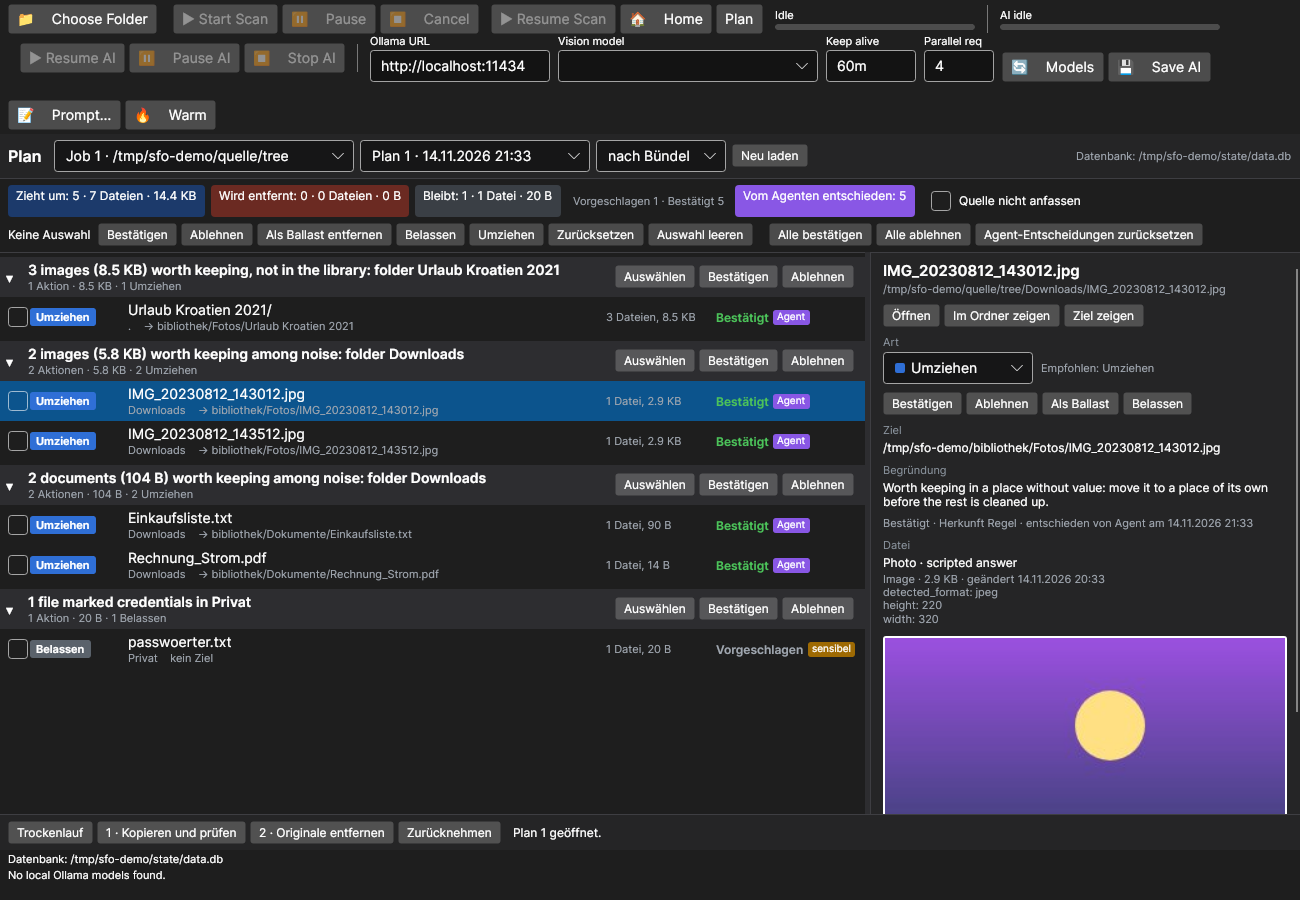
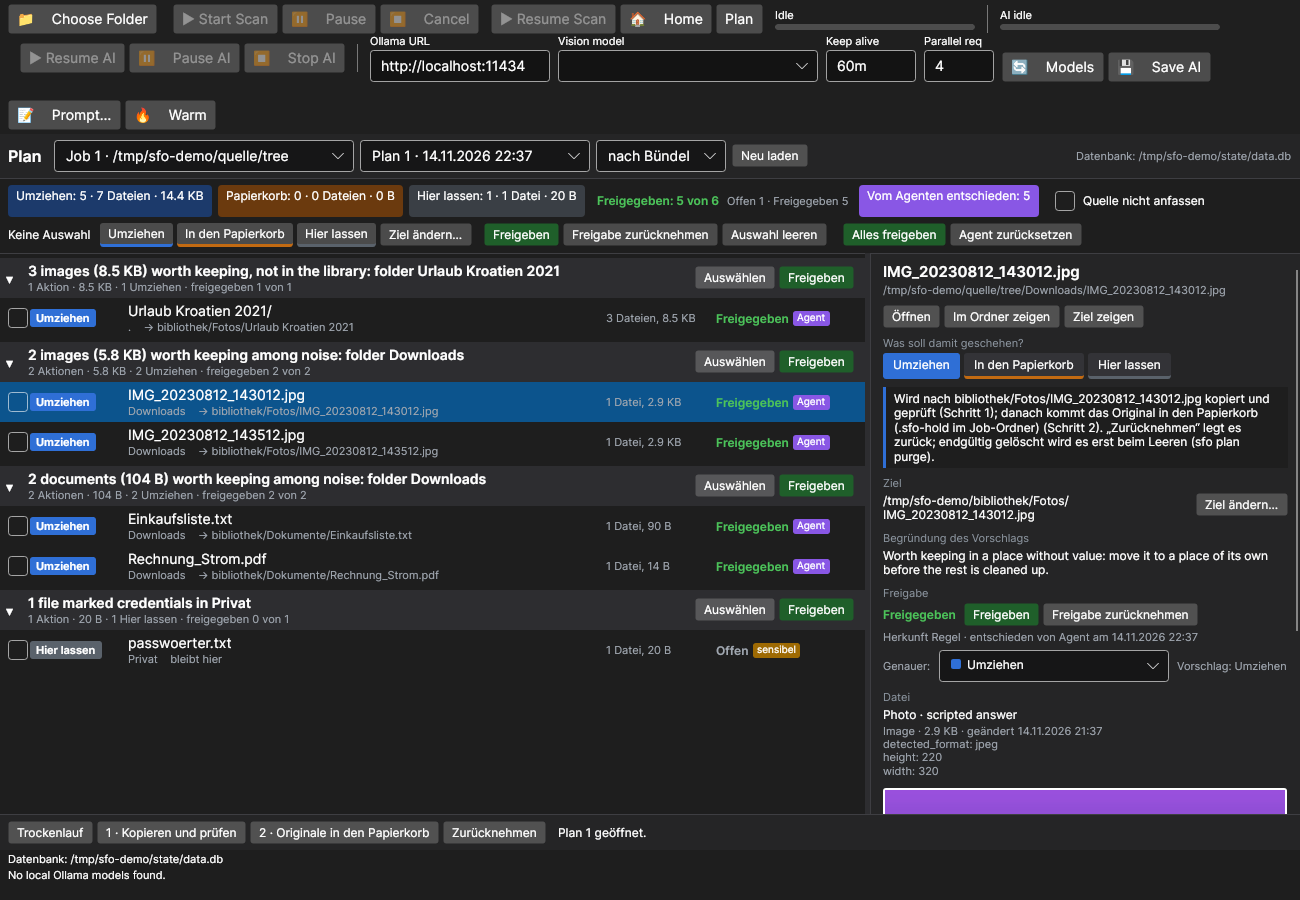
Docs and screenshots: outcomes, release and target picker of the plan view
The plan view now asks one question per file and releases in one go
(issue 102); README, status, the CLI note on the GUI and a glossary section
name the new words and which codes they stand for, with the buttons there
were before. The screenshots are one headless pass on Linux over the
generated test folder, including the target picker and the summary before
step 1; the old set is replaced.

diff --git a/docs/status-and-roadmap.md b/docs/status-and-roadmap.md
@@ -186,6 +186,35 @@ yet against a real Ollama restart.
   `sfo plan apply --action`; `sfo plan purge` is CLI only; "Als Ballast" picks
   `delete_source` only when the library comparison shows the content is held
   there, otherwise quarantine.
+- Plan view, outcomes and release (since 14.11.2026,
+  [#102](https://github.com/crack666/smart_file_organizer/issues/102)). Until
+  then the buttons were "Bestätigen", "Ablehnen", "Als Ballast", "Belassen",
+  "Umziehen", "Zurücksetzen" per row, selection and group, plus "Alle
+  bestätigen" / "Alle ablehnen"; "Ablehnen" and "Belassen" both left the file
+  in place. Now one question per action, three outcomes in fixed colours:
+  "Umziehen" (`move`, `copy`), "In den Papierkorb" (`quarantine`,
+  `delete_source`: the original goes into `.sfo-hold` in the job folder in
+  step 2 and is deleted only by `sfo plan purge`), "Hier lassen" (`leave`).
+  Then "Freigeben" (`approved`) for one action, the ticked rows, a group or
+  "Alles freigeben"; "Freigabe zurücknehmen" sets `approved` back to
+  `proposed`. Every row (tooltip) and the detail say what executing does,
+  where the file is afterwards and how to take it back; step 1 asks with a
+  summary in the same words (what moves where, what goes into the bin, what
+  stays and why). The GUI never rejects: a `rejected` action (CLI, agent)
+  shows as "Hier lassen" with the state "Abgelehnt", is never released by a
+  release, and choosing an outcome opens it again. "Genauer" keeps every kind
+  reachable. "Ziel ändern" opens a tree of the plan's libraries from the
+  library folder view (`LibraryTargetService.FolderAsync`, as `sfo library
+  folder`), with the inbox folder and "Neuer Ordner hier"; `PlanService` and
+  its checks decide, a refused target keeps the picker open with the reason.
+  Videos get one still frame when `ffmpeg` is on the PATH (the extractor of
+  the analysis), video and audio their key facts in large type.
+  _Checked 14.11.2026: `SmartFileOrganizer.Desktop.Tests` 17 passed on Windows
+  and on Linux (Avalonia headless), one pass rendered
+  ([screenshots](images/01-plan-agent.png)); the real window was not driven by
+  hand._ Limits: the folder tree reads the library map anew for each opened
+  folder, which may be slow on a large library; no still frame without
+  `ffmpeg`; `sfo plan purge` (emptying the bin) is still CLI only.
 
 ### Command line
 

diff --git a/docs/glossary.md b/docs/glossary.md
@@ -956,6 +956,23 @@ execution (https://github.com/crack666/smart_file_organizer/issues/12, `sfo plan
 | `agent` | A steering agent, through `sfo plan set` or `sfo plan import` with `--by agent`. |
 | `human` | A person. |
 
+### The plan view: outcomes and release
+
+Words of the GUI plan view since 14.11.2026 (https://github.com/crack666/smart_file_organizer/issues/102); no codes
+of their own, they name the codes above. Until then the view showed the kinds ("Quarantäne", "Löschen", "Belassen")
+and offered "Bestätigen", "Ablehnen" and "Als Ballast".
+
+| Word | Codes | What executing does |
+|---|---|---|
+| Umziehen | `move`, `copy` | Copied to the target and checked (step 1); for `move` the original then goes into the Papierkorb (step 2). |
+| Papierkorb ("In den Papierkorb") | `quarantine`, `delete_source` | The original goes into the hold folder `.sfo-hold` in the job folder (step 2); `quarantine` first puts a checked copy into the quarantine folder of the library. "Zurücknehmen" puts it back; deleted for good only by `sfo plan purge`. |
+| Hier lassen | `leave`, or any `rejected` action | Nothing. |
+| Offen | `proposed` | Not released; does not run. |
+| Freigegeben ("Freigeben") | `approved` | Released; runs in the next step. |
+| Abgelehnt | `rejected` | Set by the CLI or an agent; shown as "Hier lassen", never released by a release. Choosing an outcome sets it to `proposed` with that outcome. |
+
+"Löschen" in the sense of deleting for good is only `sfo plan purge`, which the GUI does not offer.
+
 ### Source of an action (`PlanSourceKind`)
 
 | Code | Meaning |

diff --git a/README.md b/README.md
@@ -47,10 +47,14 @@ $env:SFO_DB = "<folder>\data.db"; $env:SFO_SETTINGS = "<folder>\settings.json"; 
 "Plan" in the toolbar (or on a recent scan) opens the plan view, since
 14.11.2026 ([#15](https://github.com/crack666/smart_file_organizer/issues/15)):
 the plans of a job grouped by bundle or folder, preview and description per
-action, kind and decision for one action, a selection, a group or all, clutter
-marked with one click, and the two execution steps of the CLI, each after a
-confirmation, with dry run, progress, stop and undo. Screenshots from a
-generated test folder: [docs/images](docs/images/01-plan-agent.png).
+action, and the two execution steps of the CLI, each after a confirmation,
+with dry run, progress, stop and undo. Since 14.11.2026
+([#102](https://github.com/crack666/smart_file_organizer/issues/102)) each
+action asks one question, what happens to the file (Umziehen, In den
+Papierkorb, Hier lassen), with what executing does shown beside it; the
+person then releases all, a group or a selection at once, and changes a
+target in a folder tree of the libraries. Screenshots from a generated test
+folder: [docs/images](docs/images/01-plan-agent.png).
 
 The same work runs from the command line, with `--json` output for scripts
 and models ([docs/cli.md](docs/cli.md)):

diff --git a/docs/cli.md b/docs/cli.md
@@ -1975,6 +1975,8 @@ again. Verified, executed, failed and undone actions are not changed. Result: `{
 The GUI plan view (since 14.11.2026) changes the same plan through the same `PlanService`, with the same checks. When
 it switches an action to `quarantine` without a target of its own, the target is
 `<library>/<Plan:QuarantineFolder>/<rest of the path>`; `Plan:QuarantineFolder` defaults to `_sfo-quarantine`.
+Since 14.11.2026 (Issue 102) the GUI names outcomes instead of kinds ("Umziehen", "In den Papierkorb", "Hier lassen";
+see [glossary](glossary.md#the-plan-view-outcomes-and-release)) and never sets `rejected` itself.
 
 ### `sfo plan import <plan> <file>`
 
